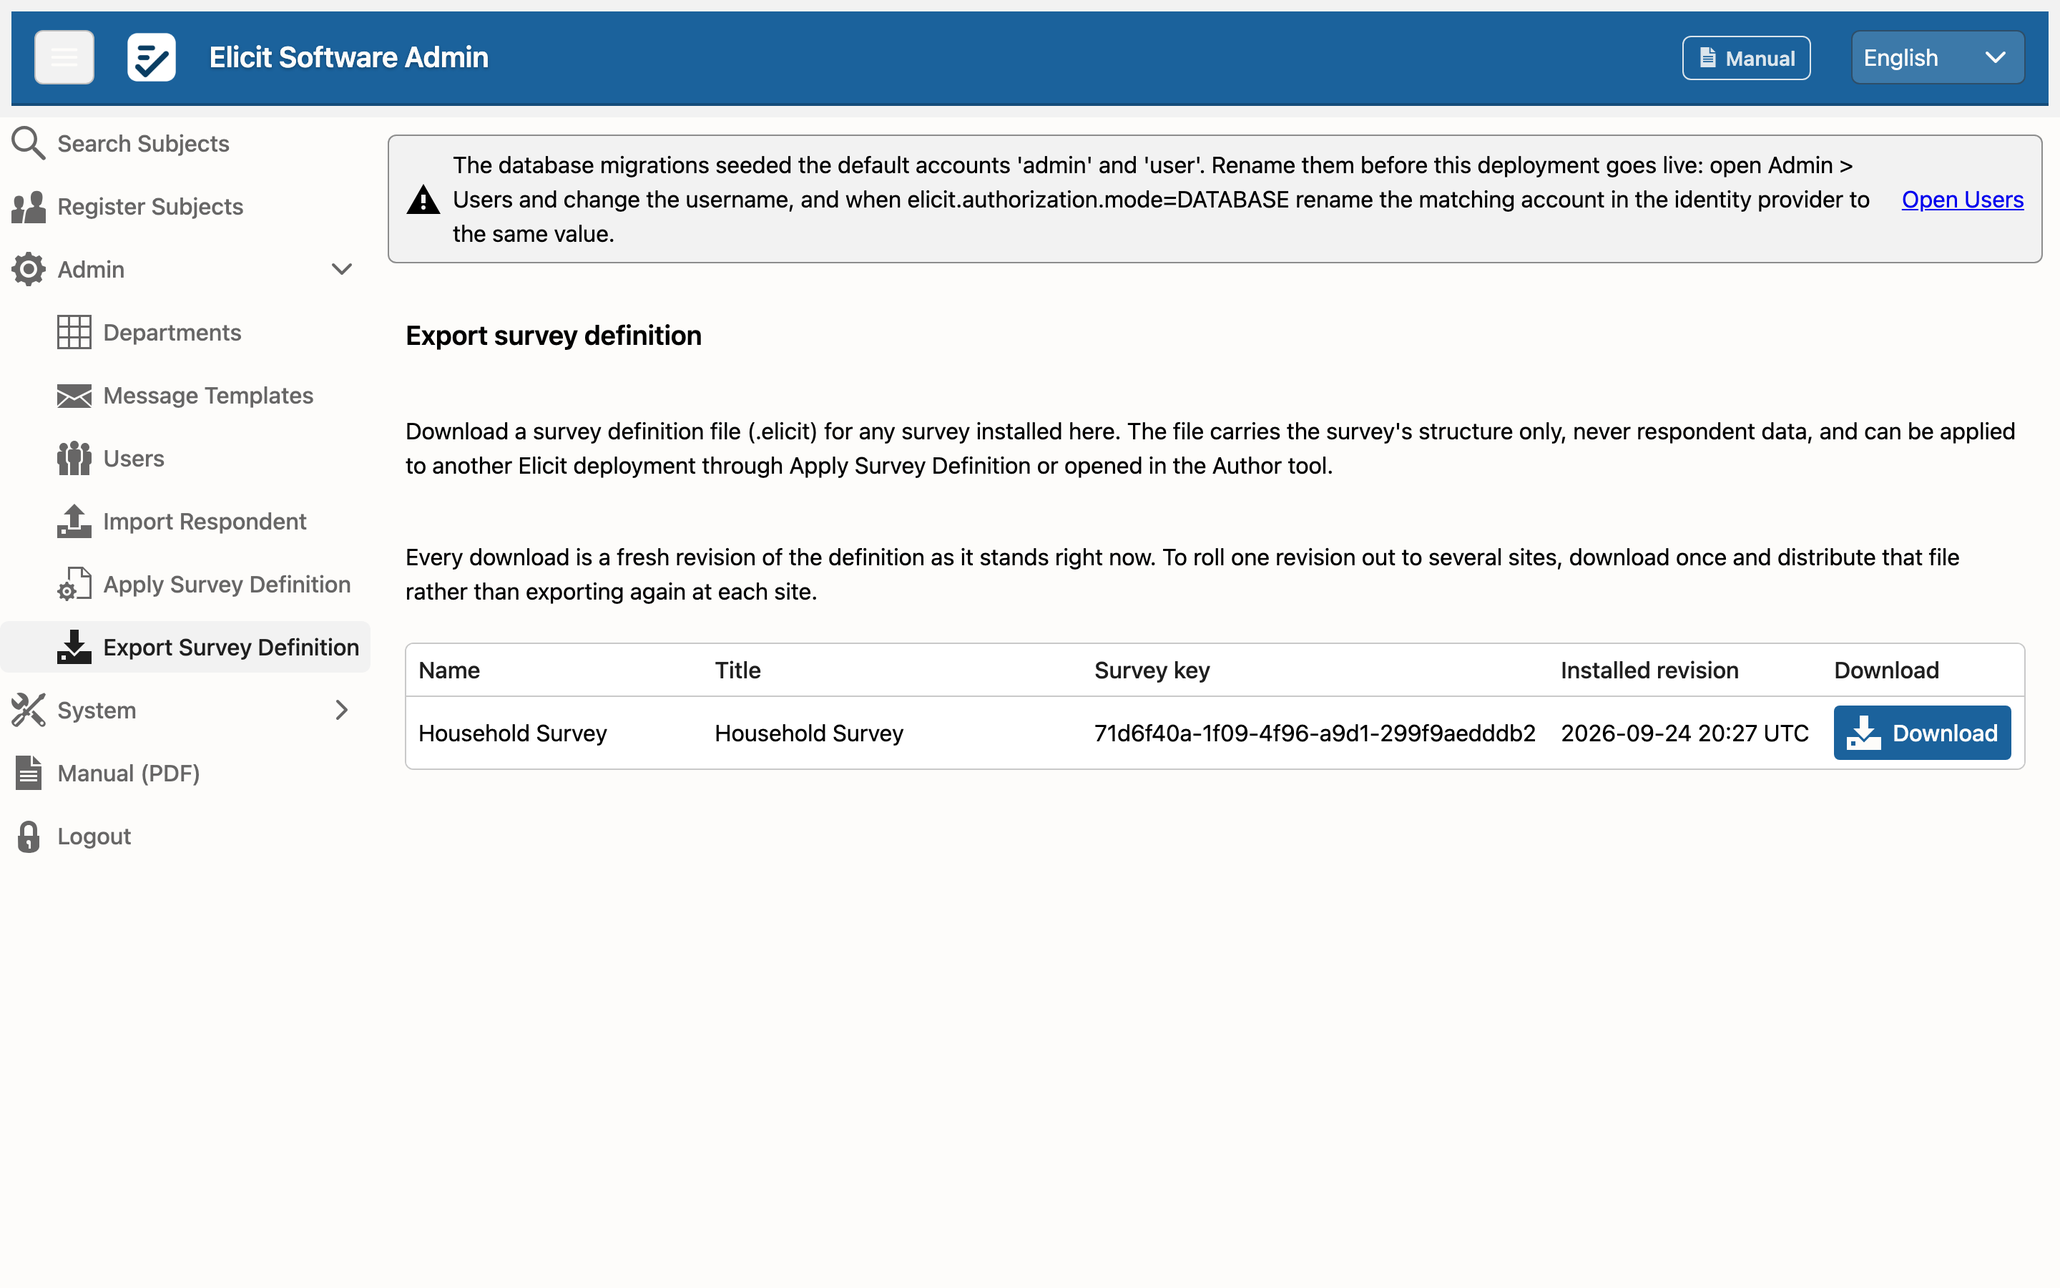
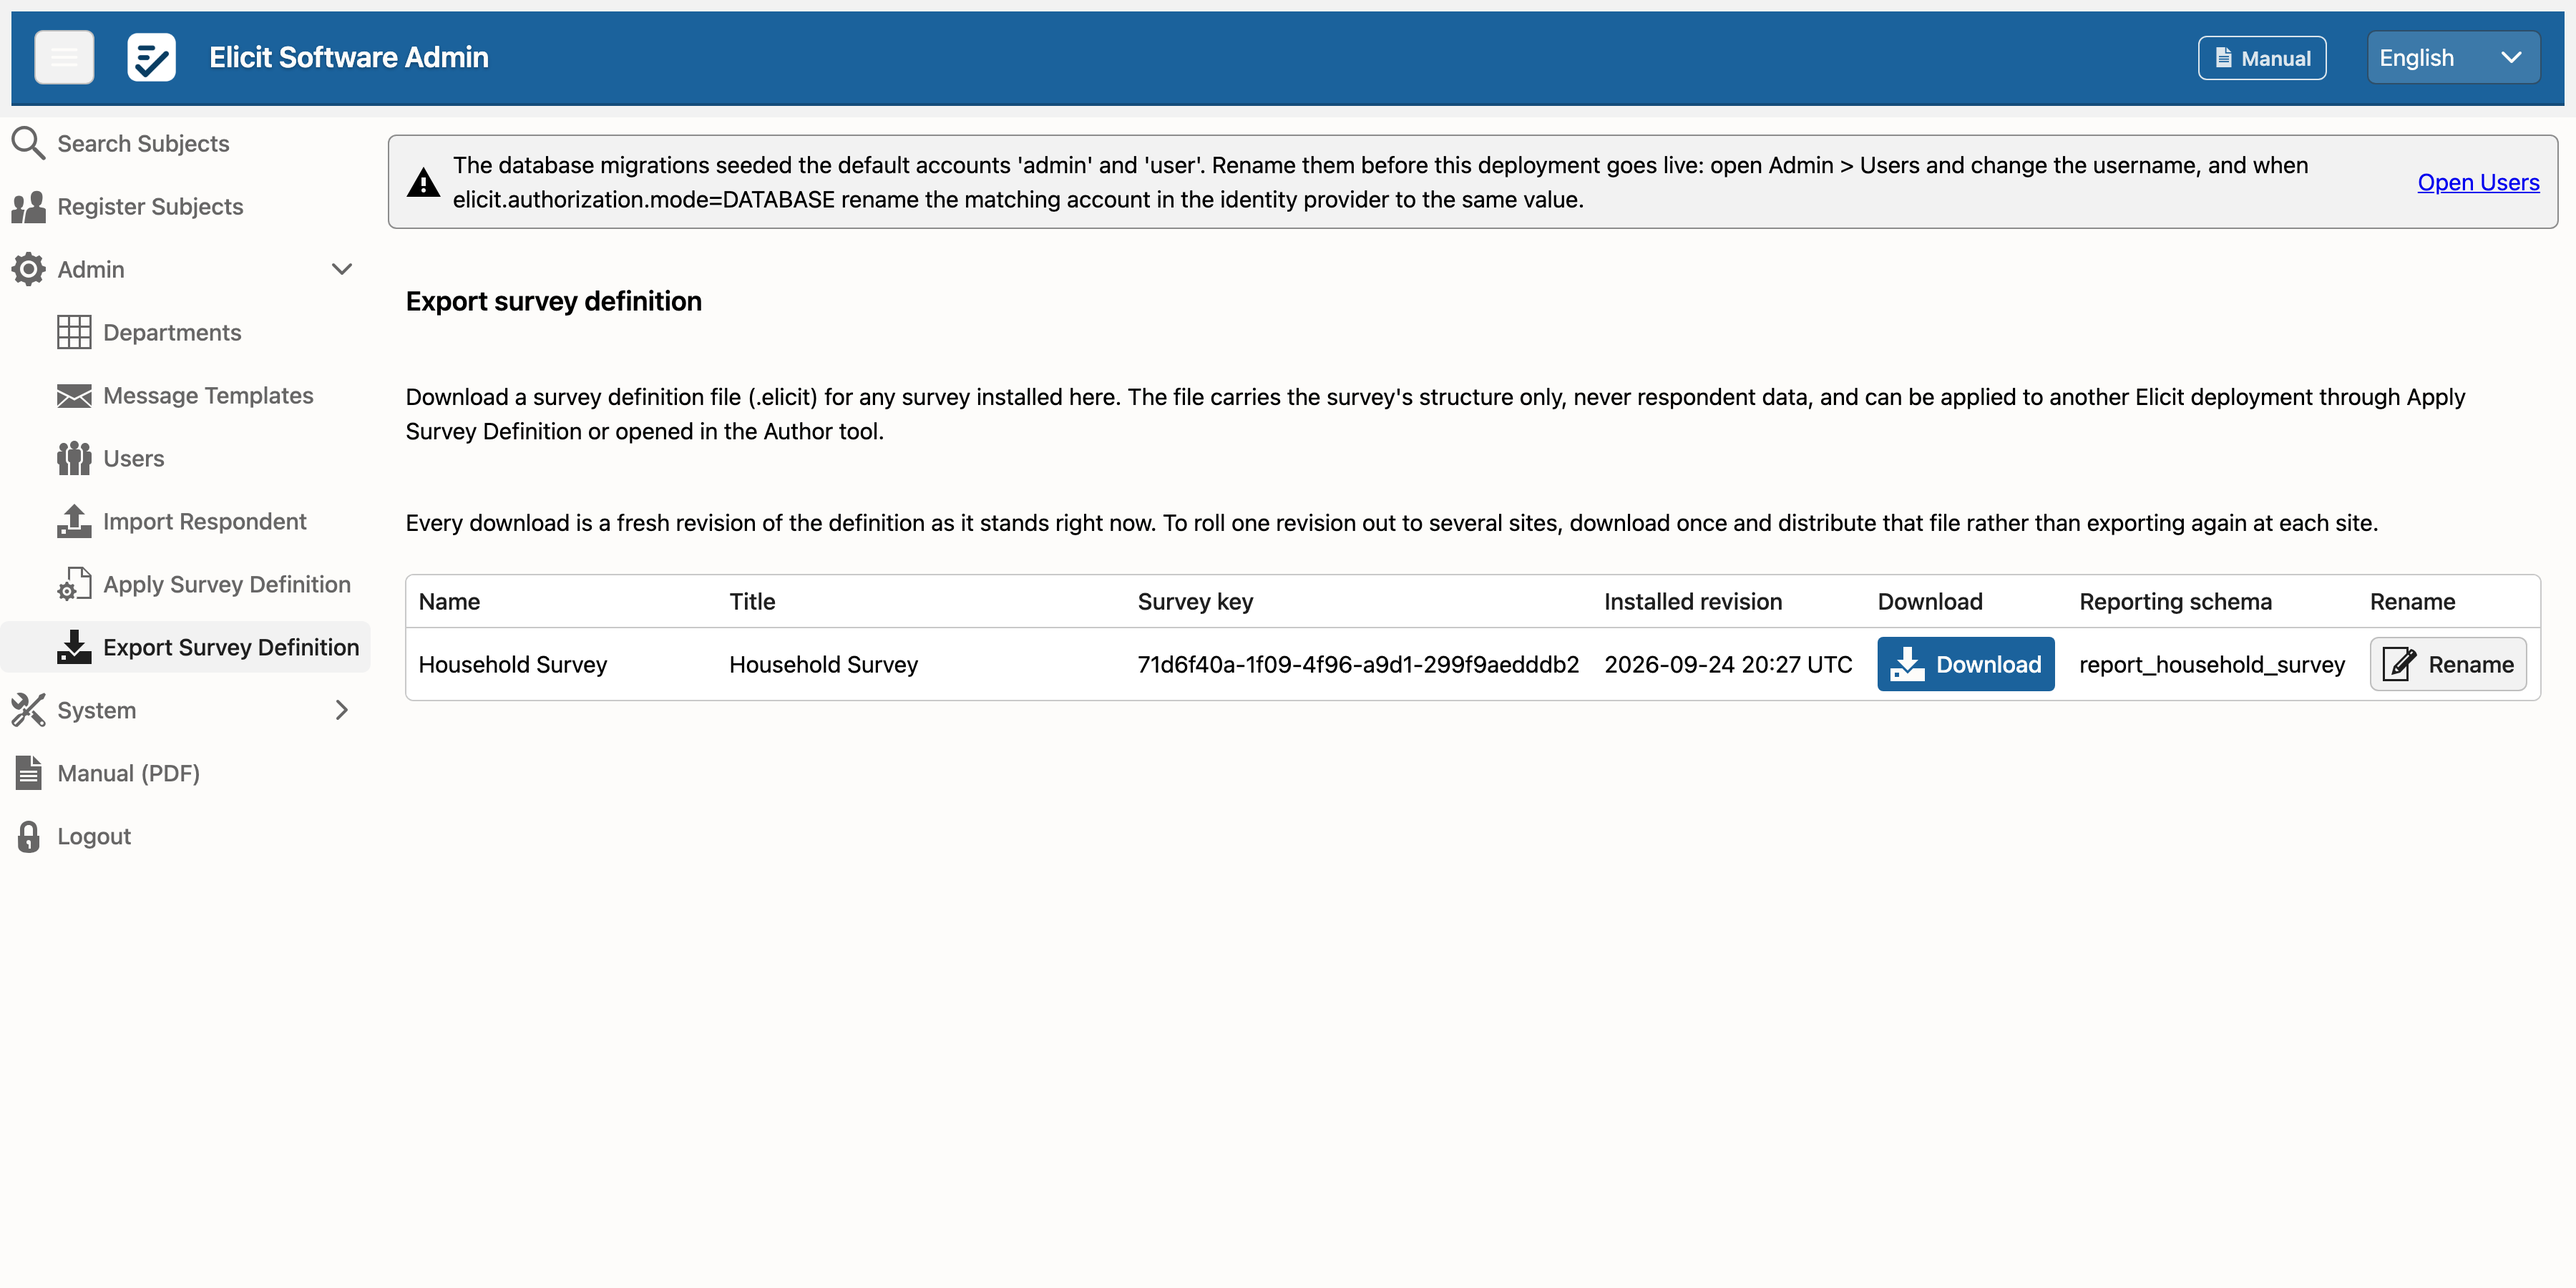
Describe renaming a survey's reporting schema in the manual
The Export Survey Definition chapter gains "Renaming a survey's
reporting schema" (UC-030): what the schema is, the procedure, the
caution about queries outside Elicit, and the "Not built yet" state.
Figure 30 shows the rename dialog, and figure 20 is recaptured with the
Reporting schema column and the Rename action in the picture; both are
shot at 1800 px because the seven-column grid scrolls sideways at the
walk's 1440 px.

diff --git a/docs/manual/elicit-admin-manual.tex b/docs/manual/elicit-admin-manual.tex
@@ -517,12 +517,46 @@ a database restore, not an upload.
 here. The file carries the survey's structure only — never respondent data — and can be applied
 to another deployment or opened in the Author tool.
 
-\screenshot{20-export-survey-definition.png}{Every installed survey, with its key and the
-revision this deployment is running. \ui{Download} takes the definition as it stands now.}
+\screenshot{20-export-survey-definition.png}{Every installed survey, with its key, the
+revision this deployment is running and the name of its reporting schema. \ui{Download} takes
+the definition as it stands now; \ui{Rename} is described below.}
 
 Each download is a fresh revision of the definition as it stands at that moment. To roll one
 revision out across several sites, download it once and distribute \emph{that} file, rather than
 exporting again at each site.
+
+\subsection{Renaming a survey's reporting schema}
+
+Every installed survey has a reporting schema of its own in the database, where its answers are
+laid out for analysts and reporting tools. The schema is named after the survey when the survey
+is first applied --- \texttt{report\_family\_history\_survey} for the Family History Survey ---
+and the \ui{Export Survey Definition} list shows the name beside each survey. A site that wants a
+shorter name, or one that follows its own convention, renames it here. Nothing in the schema is
+lost or rebuilt: the tables, views and every row keep going under the new name, and the console,
+Survey and the report services pick the new name up at once.
+
+\begin{enumerate}
+  \item Open \ui{Admin} $>$ \ui{Export Survey Definition}.
+  \item Choose \ui{Rename} on the survey's row.
+  \item Type the new name. It must be 1 to 63 lower-case letters, digits and underscores, not
+    starting with a digit, and the field says so while the name is not acceptable.
+  \item Choose \ui{Rename} in the dialog. The list shows the new name.
+\end{enumerate}
+
+\screenshot{30-rename-reporting-schema.png}{The rename dialog: the survey, its current schema
+name, the caution about what is outside the console, and the new name. \ui{Rename} stays
+until the name is acceptable.}
+
+\begin{elicitcaution}
+Queries, saved reports and BI connections \emph{outside} Elicit that name the current schema
+stop working after the rename; whoever maintains them needs the new name. Inside Elicit nothing
+is affected. A name another survey already uses is refused, and so is a name the database
+reserves.
+\end{elicitcaution}
+
+A survey whose row says \emph{Not built yet} has no reporting schema: its definition was
+installed but the reporting tables have not been built. Applying the definition again builds
+them and names the schema, after which \ui{Rename} is offered.
 
 \subsection{Before any survey is installed}
 

diff --git a/docs/plan/UC-029-administrators-manual.md b/docs/plan/UC-029-administrators-manual.md
@@ -63,7 +63,7 @@ running console; the numbering is the capture order.
 | 8 | Finding subjects and watching progress | `13-search-filters`, `14-search-results` | UC-002 |
 | 9 | Reports | `15-report-download` | UC-005 |
 | 10 | Moving a respondent between deployments | `16-respondent-export`, `17-respondent-import` | UC-011, UC-012 |
-| 11 | Installing and updating a survey | `18-apply-survey-definition`, `19-apply-result`, `20-export-survey-definition`, `21-missing-survey-notice` | UC-018 (with UC-014/UC-017 inside it), the reporting rebuild (FR-027), UC-013, UC-019 |
+| 11 | Installing and updating a survey | `18-apply-survey-definition`, `19-apply-result`, `20-export-survey-definition`, `21-missing-survey-notice`, `30-rename-reporting-schema` | UC-018 (with UC-014/UC-017 inside it), the reporting rebuild (FR-027), UC-013, UC-019, UC-030 (renaming a survey's reporting schema; numbered last because it was added after the first 29) |
 | 12 | The System screens | `22-system-overview`, `23-system-database`, `24-system-branding`, `25-system-email`, `26-system-connections`, `27-system-oidc`, `28-default-account-warning` | UC-020 – UC-025, UC-021. Nothing here edits configuration (C-012) |
 | 13 | Reading the console in your language | `29-language-selector` | UC-026 — the selector only; making a language available is the installation manual's (BR-007) |
 | 14 | Where to look next | — | the installation manual, the author's manual, the System overview |

diff --git a/docs/use_cases/UC-030-rename-a-surveys-reporting-schema.md b/docs/use_cases/UC-030-rename-a-surveys-reporting-schema.md
@@ -96,4 +96,4 @@ Inside Elicit a rename takes effect everywhere at once, because nothing hard-cod
 
 ## Reference
 
-Traces to FR-037. Implemented by `SurveyDefinitionExportView` (the schema column and the Rename action), `RenameReportingSchemaDialog` (the dialog, the client-side check of BR-116 and the outcome messages) and `ReportingSchemaRenameClient` (the call to Survey, with the same base address and timeout as `ReportingSchemaRebuildClient`). The schema name is read through `Survey.reportSchema`, mapped read-only because Survey's ETL is its only writer. Verified by `ReportingSchemaRenameClientTest`, `RenameReportingSchemaDialogTest` and `SurveyDefinitionExportViewTest`.
+Traces to FR-037. Implemented by `SurveyDefinitionExportView` (the schema column and the Rename action), `RenameReportingSchemaDialog` (the dialog, the client-side check of BR-116 and the outcome messages) and `ReportingSchemaRenameClient` (the call to Survey, with the same base address and timeout as `ReportingSchemaRebuildClient`). The schema name is read through `Survey.reportSchema`, mapped read-only because Survey's ETL is its only writer. Verified by `ReportingSchemaRenameClientTest`, `RenameReportingSchemaDialogTest` and `SurveyDefinitionExportViewTest`. The administrator's manual (UC-029) tells the procedure in "Renaming a survey's reporting schema" with figure `30-rename-reporting-schema`.

diff --git a/docs/manual/README.md b/docs/manual/README.md
@@ -84,7 +84,7 @@ silently undated.
 ## Regenerating the screenshots
 
 The figures are committed. Regenerate them only when the screens they show
-change. All 29 come from one run against a **greenfield** stack:
+change. All 30 come from one run against a **greenfield** stack:
 
 ```bash
 cd …/Elicit && ./resetDatabase.sh V3 && docker compose up -d
